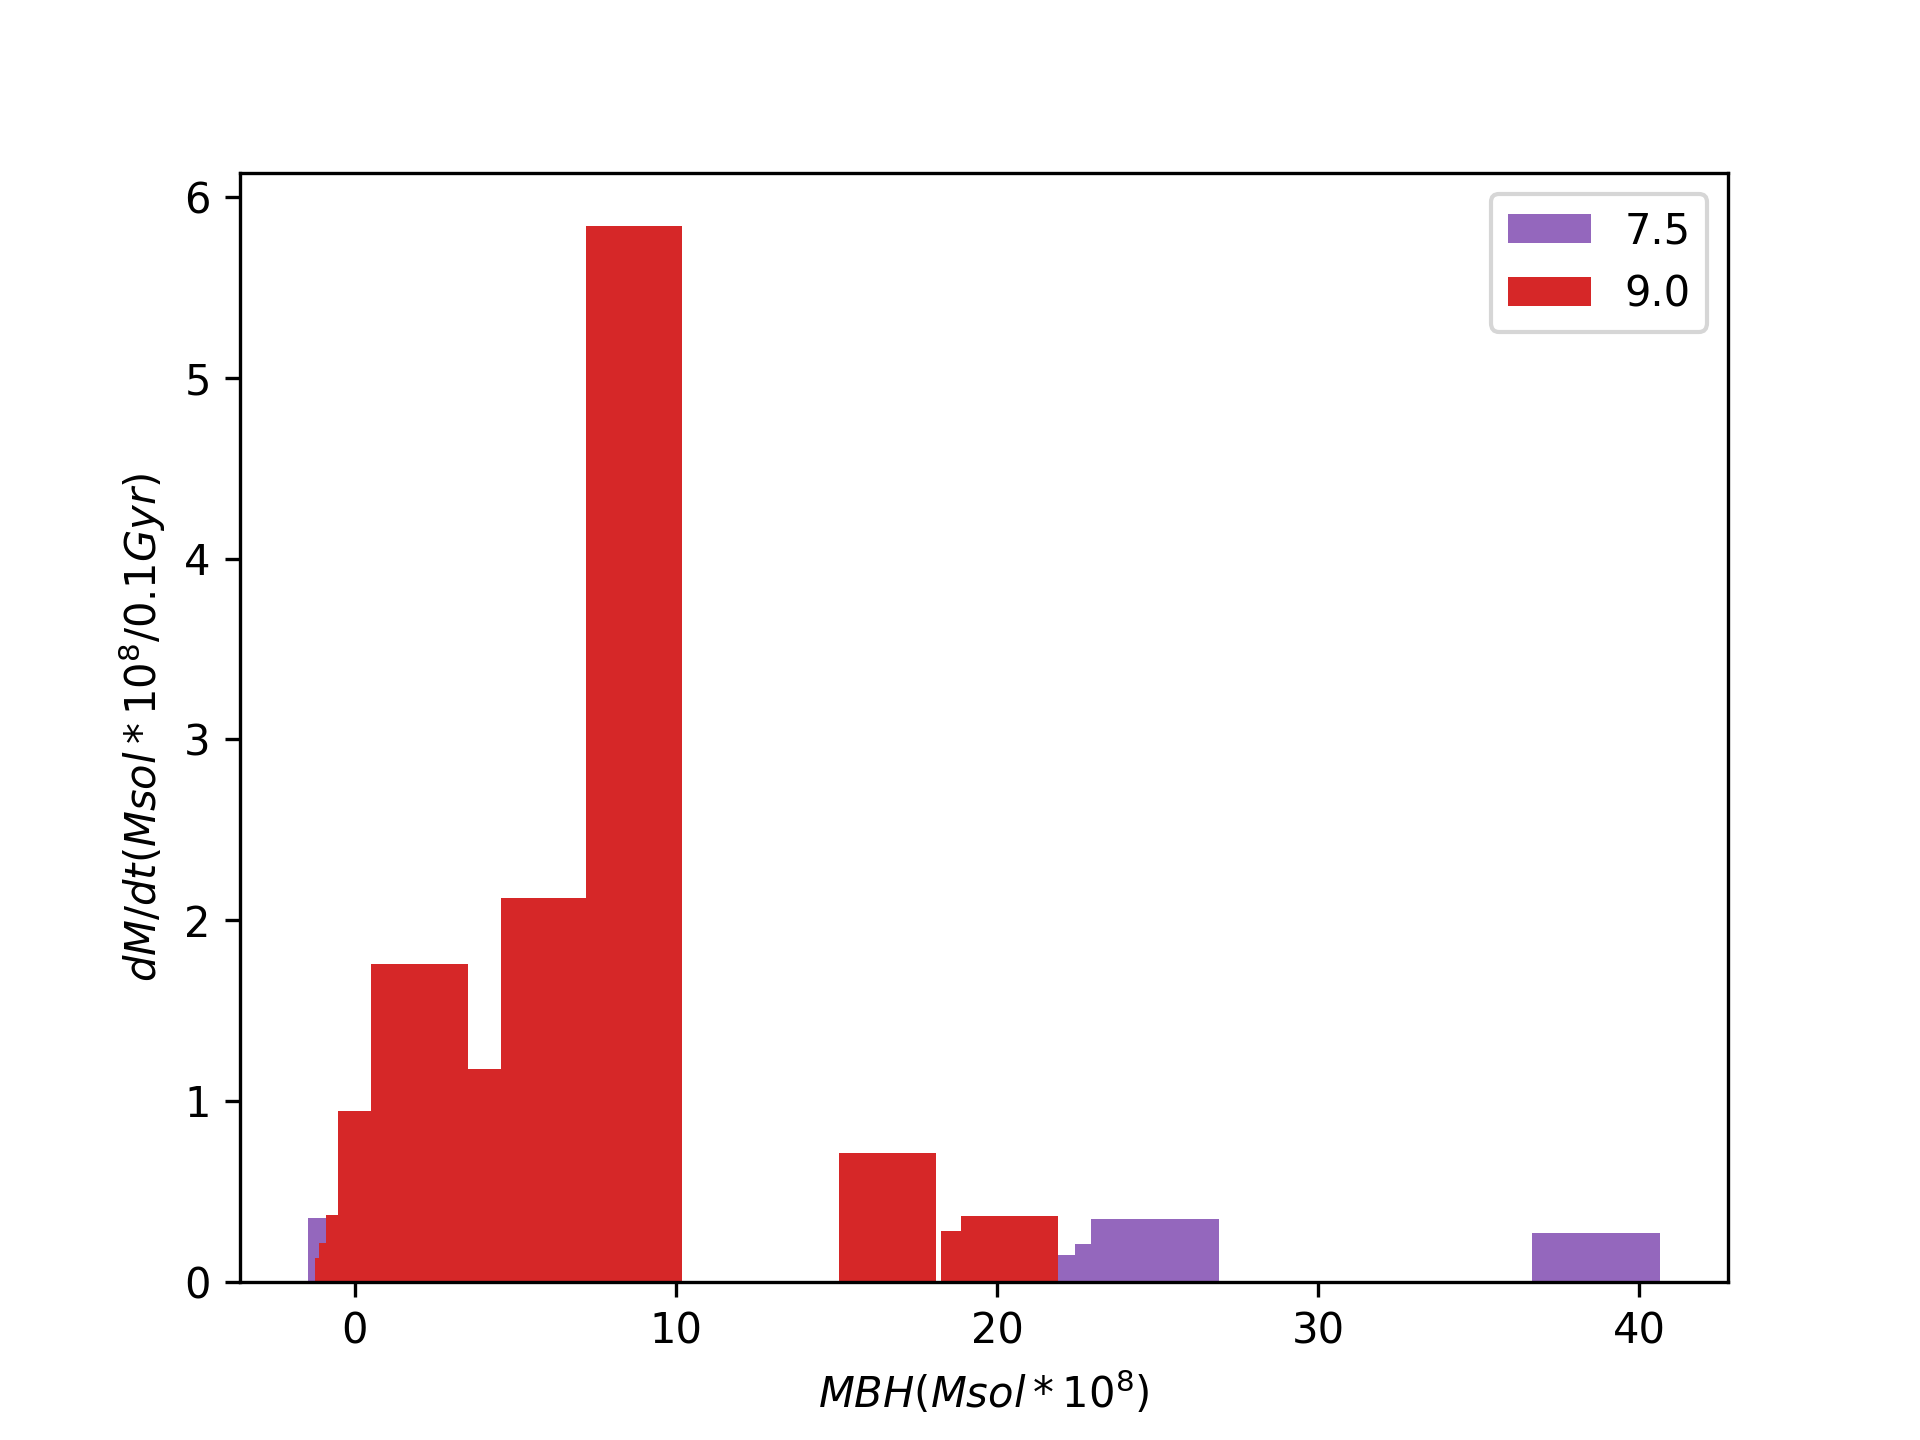
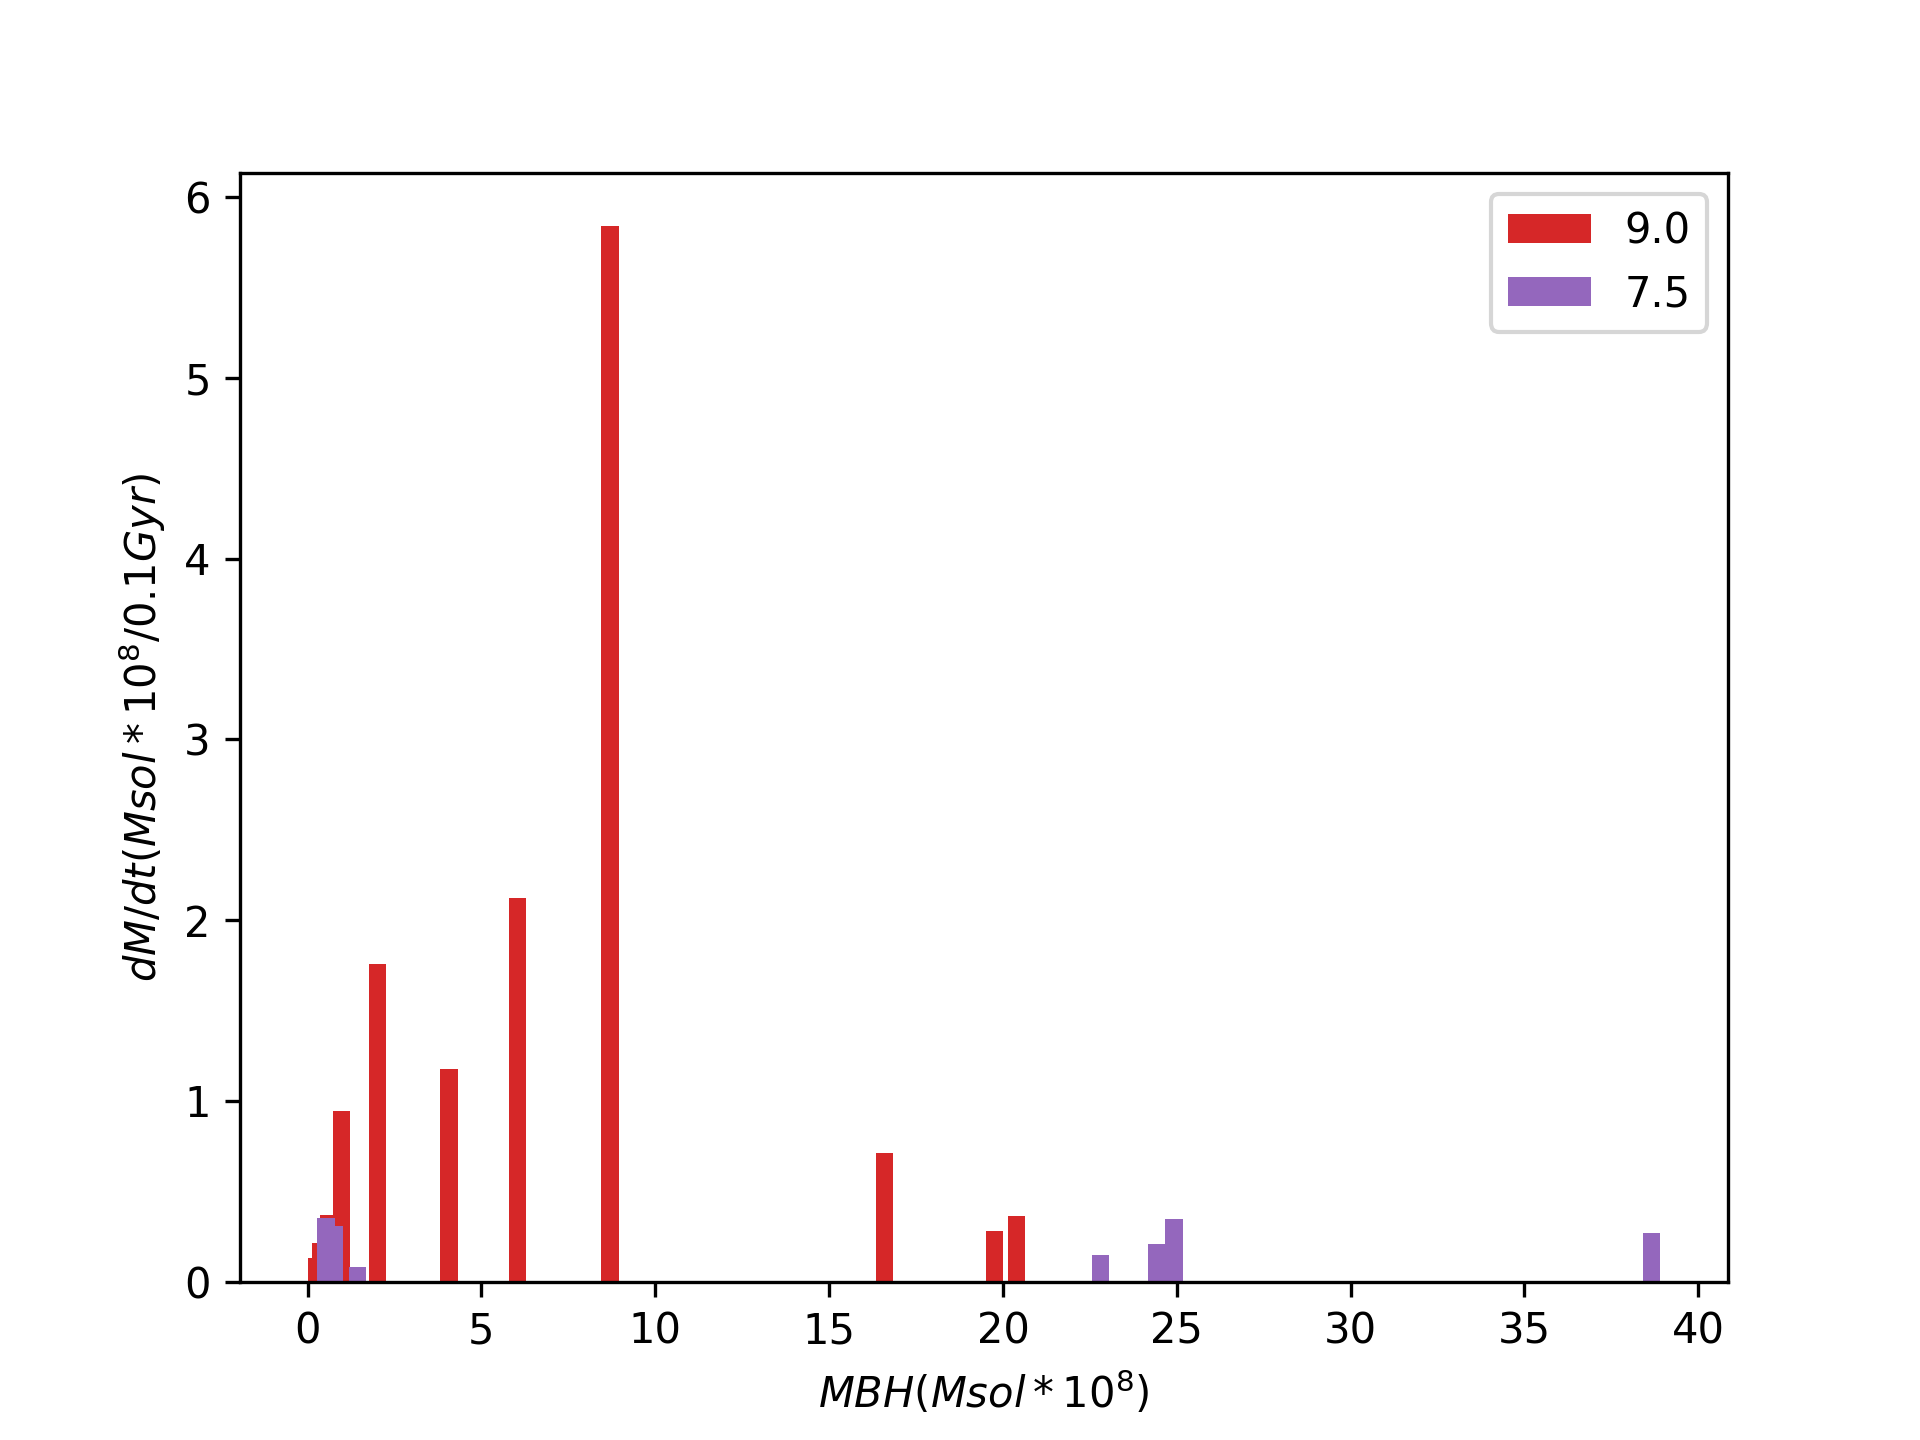
better diagrams

diff --git a/dMdt_Mbh_diagram/dMdt_Mbh_diagram.py b/dMdt_Mbh_diagram/dMdt_Mbh_diagram.py
@@ -159,7 +159,7 @@ def Hist(number):
     #ax1.plot(j['t'],'b',j[str])
     #halo.append(ax.scatter(Tb[i], dMdt[i], s=5, c=c, vmin=0, vmax=100,label=halo_names[i]))
     #ax.scatter(time, rat, s=6, c=c, vmin=0, vmax=100)
-    for j in lb:
+    for j in reversed(lb):
         dm=[]
         MBh=[]
         for k in range(len(Tb[i])):
@@ -167,9 +167,9 @@ def Hist(number):
                 dm.append(dMdt[i][k])
                 MBh.append(Mbh[i][k])
         if len(dm)!=0:
-            c=np.full(len(MBh),'r')
+            #c=np.full(len(MBh),'r')
            # color=colors[9-int(j/1.5)]
-            ax.bar( MBh,dm, width=(9-(j/1.5)),color=colors[9-int(j/1.5)] ,label=j)
+            ax.bar( MBh, dm, width=0.5,color=colors[9-int(j/1.5)] ,label=j)
             ax.legend(title='Gyr',fontsize='small')     
     ax.legend()
 
